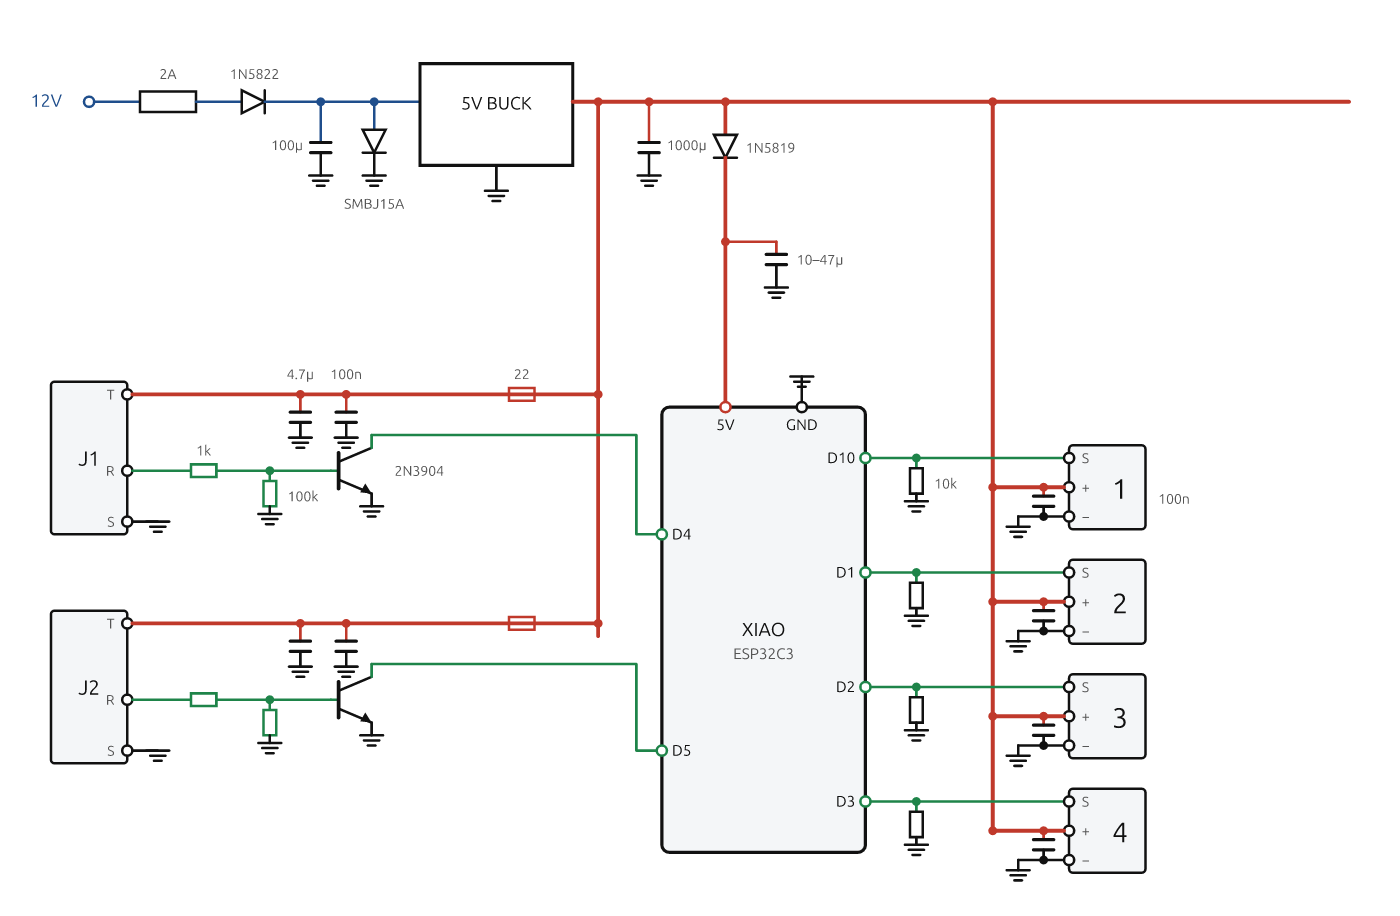
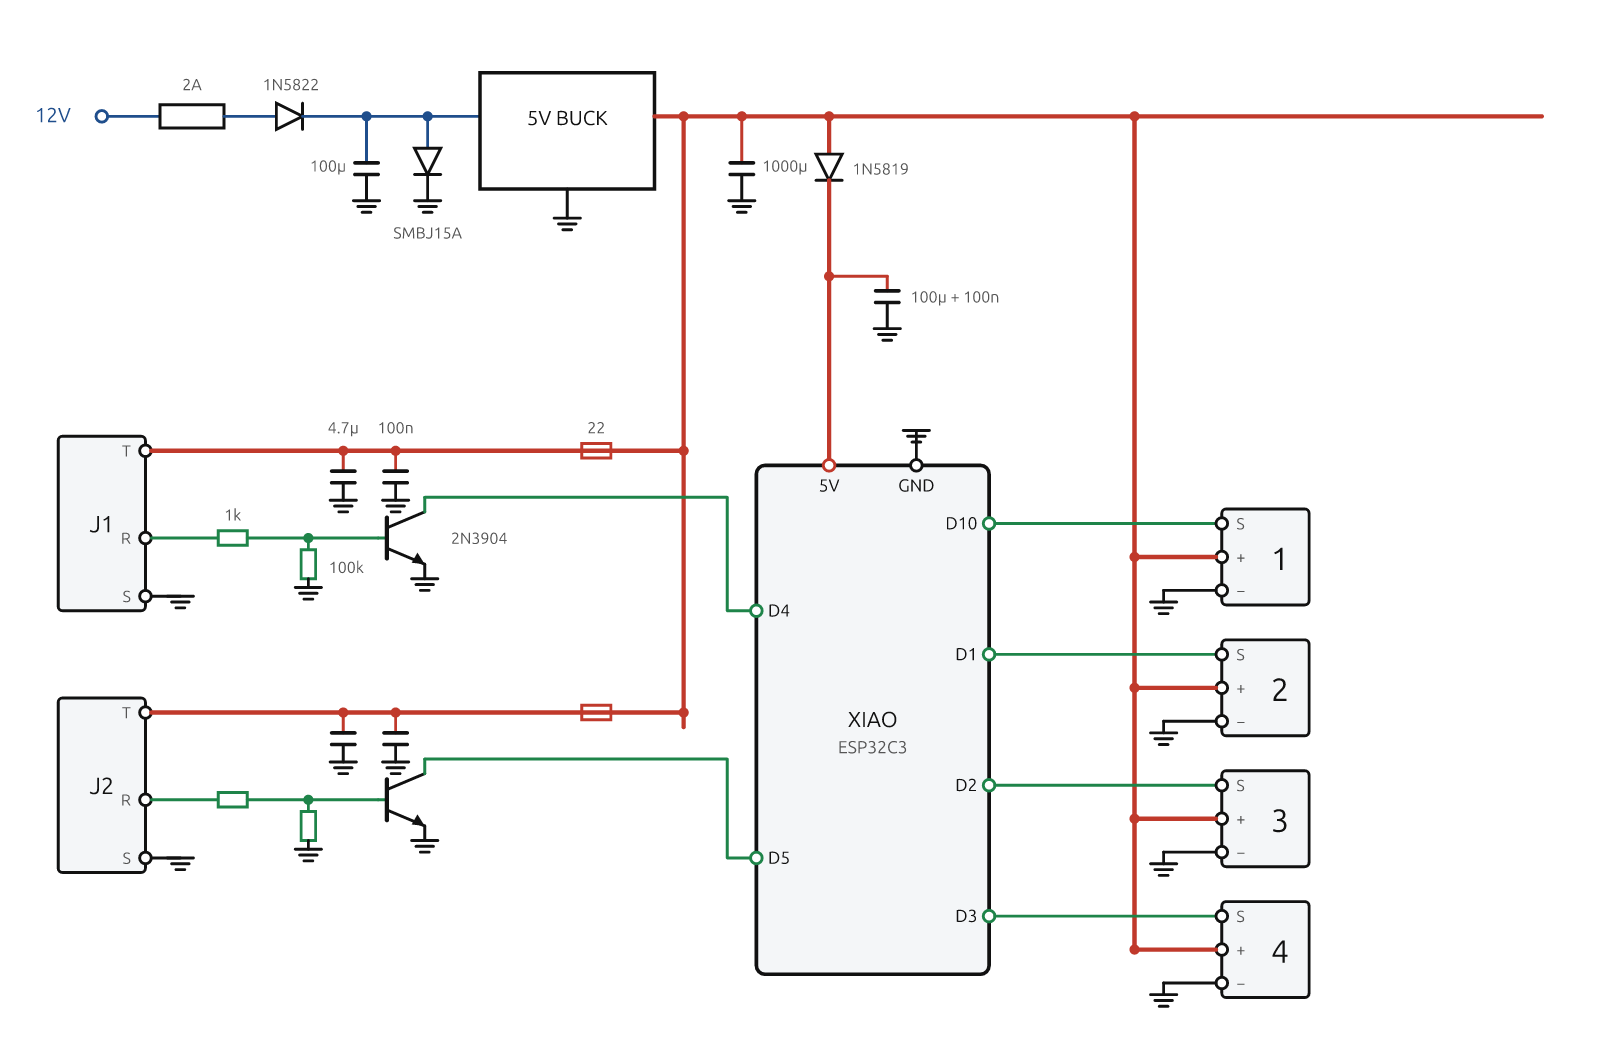
servo board: drop per-servo pull-downs and caps; XIAO feed cap 100 uF

diff --git a/docs/08-servo-board.md b/docs/08-servo-board.md
@@ -36,9 +36,9 @@ is available, and makes its own 5 V.
    │
    ├─ fuse (~2 A, resettable) ─ reverse-polarity protection ─ TVS across the input
    │
-   └─ 5 V buck converter, >= 3 A ──┬── servo bus: 470–1000 µF bulk cap ──> 4 servo headers (+)
+   └─ 5 V buck converter, >= 3 A ──┬── servo bus: 470–1000 µF bulk cap (the only cap on the servo side) ──> 4 servo headers (+)
                                    │
-                                   └── Schottky (1N5819) ── XIAO 5V pin (+ 10–47 µF at the pin)
+                                   └── Schottky (1N5819) ── XIAO 5V pin (+ 100 µF at the pin)
 
  GND: one star point. Servo ground returns and the XIAO GND meet there; the buck's GND too.
 ```
@@ -63,7 +63,7 @@ One **3-pin 0.1" male header per servo**, in the S51's own order so the servo pl
 
 | Header pin | Wire (S51) | Goes to |
 |---|---|---|
-| 1 | orange, signal | XIAO pin (table below), 10 kΩ to GND |
+| 1 | orange, signal | XIAO pin (table below), nothing else on the line |
 | 2 | red, +5 V | the servo bus (after the bulk cap) |
 | 3 | brown, GND | the GND star point |
 
@@ -76,7 +76,7 @@ One **3-pin 0.1" male header per servo**, in the S51's own order so the servo pl
 | *never* | D0, D8, D9 | GPIO2, 8, 9 — strapping, see CLAUDE.md |
 
 3.3 V signals drive the S51 directly (measured); no level shifter. A 100–330 Ω series resistor on
-each signal is optional protection. Add a **100 nF cap across each header's + and GND**.
+each signal is optional protection. There are **no per-servo pull-downs or caps**: the pull-downs did not stop the boot twitch when tried, and the one bulk cap serves all four servos.
 
 D4 and D5 (GPIO6, 7) are the two sensor inputs (§7). D6/D7 are the UART pins and are left unused:
 the chip prints boot messages on one of them.
@@ -119,9 +119,9 @@ before ordering.**
 | 6 | Resettable fuse | Bourns MF-R200 (2 A hold) | 1 | ? | on the 12 V input. Check its voltage rating against the 12.6 V battery |
 | 7 | Bulk cap, servo bus | 1000 µF, 16 V electrolytic | 1 | **[bin?]** | at the buck output; 470 µF also acceptable |
 | 8 | Input cap | 100 µF, 25 V electrolytic | 1 | ? | at the buck input |
-| 9 | XIAO feed cap | 10–47 µF, 10 V | 1 | ? | at the XIAO 5V pin |
-| 10 | Ceramic caps | 100 nF, 50 V | 5 | ? | one across each servo header's + and GND, one at the XIAO |
-| 11 | Signal pull-downs | 10 kΩ, 1/4 W | 4 | **[bin?]** | one per signal pin, to GND |
+| 9 | XIAO feed cap | 100 µF, 10 V or higher | 1 | ? | at the XIAO 5V pin, after the Schottky; it only has to carry the XIAO (~100 mA, radio bursts higher) through short dips |
+| 10 | Ceramic cap | 100 nF, 50 V | 1 | ? | one at the XIAO 5V pin |
+| 11 | *(removed: signal pull-downs)* | | 0 | | not needed |
 | 12 | Signal series resistors (optional) | 100–330 Ω, 1/4 W | 4 | **[bin?]** | optional protection |
 | 13 | Servo headers | 3-pin 2.54 mm male header (break from a 40-pin strip) | 4 | ? | signal, +5 V, GND, in the S51's own order |
 | 14 | XIAO sockets | 7-pin 2.54 mm female header | 2 | ? | so the XIAO can be removed and reflashed |
